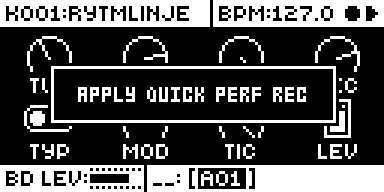
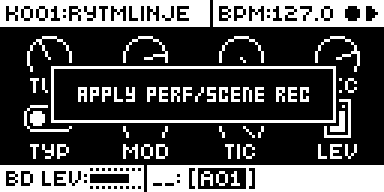
Improved Modulation 0.6.0: screenshots from Q608 (the two quick perf rec captures show the new messages, seven byte-identical, perf-lock.png new), evidence (the rig on R606 to R608, the author's hand test of R606), TESTING

Changed region(s): [[0.375, 0.4375, 0.8125, 0.5312]]

diff --git a/sdk/analog-rytm-mkii/modules/quick-velocity-aftertouch-assign/TESTING.md b/sdk/analog-rytm-mkii/modules/quick-velocity-aftertouch-assign/TESTING.md
@@ -6,7 +6,7 @@ The module was called Quick Mod Assign up to 0.3.1 and Improved Mod Assign in 0.
 
 The PERF hold takes the gestures QPER held (QPER keeps its link), CHRO holds the aftertouch assign (SAMPLER is stock's again), SCENE + YES writes a scene into the kit, and the quick perf rec keeps scene changes. The undo of an apply now also accepts the value it expected to write, so it does not depend on when stock's setter lands.
 
-rytm-emu (2ac0f1f, ramboot build), Q602 to Q606 on the plain base 1c14b6b0, against stock QS00 where stock does something; not hardware evidence:
+rytm-emu (2ac0f1f, ramboot build), Q602 to Q608 on the plain base 1c14b6b0, against stock QS00 where stock does something; not hardware evidence:
 
 | Check | Stock | 0.6.0 |
 | --- | --- | --- |
@@ -28,13 +28,21 @@ rytm-emu (2ac0f1f, ramboot build), Q602 to Q606 on the plain base 1c14b6b0, agai
 | Scene 2 recorded, LIVE RECORDING off, scene 2 disengaged by hand, a pass later | | scene 2 engaged again by the lane (scene edit shows SCENE: 2; before the pass came round, SCENE: 1) |
 | Scene 2 engaged in LIVE RECORDING, RECORD + YES | | scene 2 is disengaged by the apply (scene edit shows SCENE: 1, none active), so its locks play only on the steps that got them |
 
-The nine gesture screens are byte-identical between Q602 and Q604 (before and after the review fixes). Screenshots: Q606's captures; the nine earlier files are byte-identical with the new plans (CHRO for SAMPLER, PERF for QPER's knob), `perf-lock.png` is new. Memory: Q606 leaves 88,016 bytes of the shared mod area (the base alone 118,836), so the module takes 30,820.
+The nine gesture screens are byte-identical between Q602 and Q604 (before and after the review fixes). Screenshots: Q608's captures; seven earlier files are byte-identical with the new plans (CHRO for SAMPLER, PERF for QPER's knob), the two quick perf rec captures show the new messages, `perf-lock.png` is new. Memory: Q608 leaves 87,840 bytes of the shared mod area (the base alone 118,836), so the module takes 30,996.
 
 Rig cases, rytm-emu, R605 (`9a2af68e…`) and R606 (`002b19ad…`), the development base 25f2c915: 32 of 33 pass. The one failure is the private case look-sampler-800, which tested the old SAMPLER hold: SAMPLER now opens the recorder as stock does. The two new CHRO look cases pass.
 
-An independent code review of 0.6.0 found five faults in SCENE + YES and the scene lane (an undo that outlived its hold, a scene the lane had engaged that a hand could not record again, a take armed by a change made while stopped, no new scene take after RECORD + NO, a scenes-only take not following a longer loop) and smaller ones (the first change after a gap not played back, a quick CHRO tap losing its toggle, recording running on after LIVE RECORDING went off, the audio block and the UI tick both writing the lane). All are fixed in Q604/Q605: the lane now lives in the UI tick alone. A second review of those fixes found RECORD + YES leaving the take's scene engaged, the tick recording one point where it had passed several, a cut position read ending a take early, the lane's period not following a shorter loop, and a pending wipe ignored by RECORD + YES; fixed in Q606, where the seven lane checks above give the same screens as on Q604. Q606's fixes have had no further review.
+An independent code review of 0.6.0 found five faults in SCENE + YES and the scene lane (an undo that outlived its hold, a scene the lane had engaged that a hand could not record again, a take armed by a change made while stopped, no new scene take after RECORD + NO, a scenes-only take not following a longer loop) and smaller ones (the first change after a gap not played back, a quick CHRO tap losing its toggle, recording running on after LIVE RECORDING went off, the audio block and the UI tick both writing the lane). All are fixed in Q604/Q605: the lane now lives in the UI tick alone. A second review of those fixes found RECORD + YES leaving the take's scene engaged, the tick recording one point where it had passed several, a cut position read ending a take early, the lane's period not following a shorter loop, and a pending wipe ignored by RECORD + YES; fixed in Q606, where the seven lane checks above give the same screens as on Q604. A third review, after the hand test's changes, found a take recorded from another kit's scene at the loop's wrap, a gap at a second change in one take, an undo that could replace a lock made since, and three smaller faults; fixed in Q608, which has had no further review.
 
-Not tested: anything of 0.6.0 on a unit (see below when it has run); a scene take across a loop length change; scene changes by MIDI; the lane beside performance moves on the same parameter by ear.
+After the hand test (below), Q607 and Q608, rytm-emu: SCENE + YES and SCENE + PLAY 0.05 s into a hold act at once (SCENE 1 APPLIED, CLEAR SCENE); a second SCENE + YES in a new hold shows UNDO APPLY, and so does PERF + YES; after the apply, DEC locked again and SCENE + YES pressed applies afresh (SCENE 1 APPLIED, no undo); RECORD held, SCENE touched, YES leaves the scene alone (20 locks still); a take with scene 2 then scene 1 writes no locks on a step in scene 2's stretch and scene 1's on a step in its own; RECORD + YES and NO show APPLY PERF/SCENE REC and CLEAR PERF/SCENE REC. Rig cases: 32 of 33 on R608 (`5686e0f6…`), the same expected failure.
+
+On the author's unit, 25 Nov 2026, each image RAM-booted over the flashed FXCJ, scratch project:
+
+- The test rig, R606 (image CRC `2d8393fe`): PERF + B drew SWT's box at +4 on the linked performance, PLAY showed CLEAR PERFORMANCE and PLAY again UNDO CLEAR; CHRO + DEC on AMP drew DEC's box and left DEC at INF; SCENE + YES showed SCENE 10 APPLIED and YES again UNDO APPLY with the box back; QPER + B was a plain edit; SCENE + knob and SCENE + pad + knob as on 0.5.0.
+- By hand, reported by the author, R606: CHRO's assign and tap passed; SAMPLER opened the recorder at once, as stock; QPER + pad moved the link; SCENE + YES applied. PERF + YES said NOTHING TO APPLY (the QPER knob had not moved since the restart, so its amount was 0). In PERF mode PERF + pad played the pad, which the author then chose to keep. A second SCENE + YES after letting go said NOTHING TO APPLY, and the keys needed the hold to be under way: both changed in R607 at the author's request, with the messages.
+- The test rig, R607 (`8594ba68`) and R608 (`be8b1c96`, the final source): SCENE + YES pressed at once showed SCENE n APPLIED, and YES in a new hold UNDO APPLY with the boxes back; PERF + YES with the amount set by MIDI CC 35 showed PERFORMANCE 1 APPLIED and YES in a new hold UNDO APPLY; in scene mode with LIVE RECORDING on, scene 2 then scene 9 engaged, RECORD + YES showed APPLY PERF/SCENE REC and RECORD + NO then NOTHING TO CLEAR (a take with scene 2 alone, which has no locks there, gave NOTHING TO APPLY).
+
+Not tested: this package's own image on a unit; scene playback from the take and the written locks by ear on the unit; a scene take across a loop length change; scene changes by MIDI; R607's and R608's changes by hand.
 
 ## 0.5.0: QPER Live Rec folded in (25 Nov 2026)
 

diff --git a/sdk/analog-rytm-mkii/modules/quick-velocity-aftertouch-assign/README.md b/sdk/analog-rytm-mkii/modules/quick-velocity-aftertouch-assign/README.md
@@ -164,7 +164,7 @@ rytm-emu on OS 1.74 ([TESTING.md](TESTING.md)), the author's unit on combined im
 
 On the author's Analog Rytm MKII: builds QP01 to QC13 for the QPER controls and QT01 to QT08 (with a debug trace over USB MIDI) for the quick perf rec, QPERF alone, and rytm-emu on OS 1.74 ([TESTING.md](TESTING.md)).
 
-Memory (0.6.0, Modwerk's linker on the plain base 1c14b6b0, base alone against base with the module): 30,820 bytes of the shared mod area, about 21,000 of them the performance and scene locks' code and the quick perf rec (6,912 of those the quick perf rec's performance lanes: 12 performances, 64 steps, 8 points a step, and 576 its scene lane). Load: FIX, CHRO, LFO, SCENE and PERF are UI only, as is the scene lane (once a UI tick), on key events, knob turns and ticks; the quick perf rec's record and playback run once per audio block (`ev_render_out`): about 0.5 % of the block idle, measured on a unit for QPER Live Rec 0.2.2.
+Memory (0.6.0, Modwerk's linker on the plain base 1c14b6b0, base alone against base with the module): 30,996 bytes of the shared mod area, about 21,000 of them the performance and scene locks' code and the quick perf rec (6,912 of those the quick perf rec's performance lanes: 12 performances, 64 steps, 8 points a step, and 576 its scene lane). Load: FIX, CHRO, LFO, SCENE and PERF are UI only, as is the scene lane (once a UI tick), on key events, knob turns and ticks; the quick perf rec's record and playback run once per audio block (`ev_render_out`): about 0.5 % of the block idle, measured on a unit for QPER Live Rec 0.2.2.
 
 ## Authorship and licences
 
@@ -172,7 +172,7 @@ Original code by Nathaniel Pavel (@npp1993), GPL-3.0-or-later ([LICENSE](LICENSE
 
 ## Screens and audio
 
-Screenshots are rytm-emu captures of build Q606, the module's own image on the plain base ([media/capture.json](media/capture.json)). No audio preview yet.
+Screenshots are rytm-emu captures of build Q608, the module's own image on the plain base ([media/capture.json](media/capture.json)). No audio preview yet.
 
 ![FILTER page with FIX held: FRQ +19 and RES 0](media/fix-filter.png) ![AMP page with CHRO held: DEC +11](media/chro-amp.png)
 
